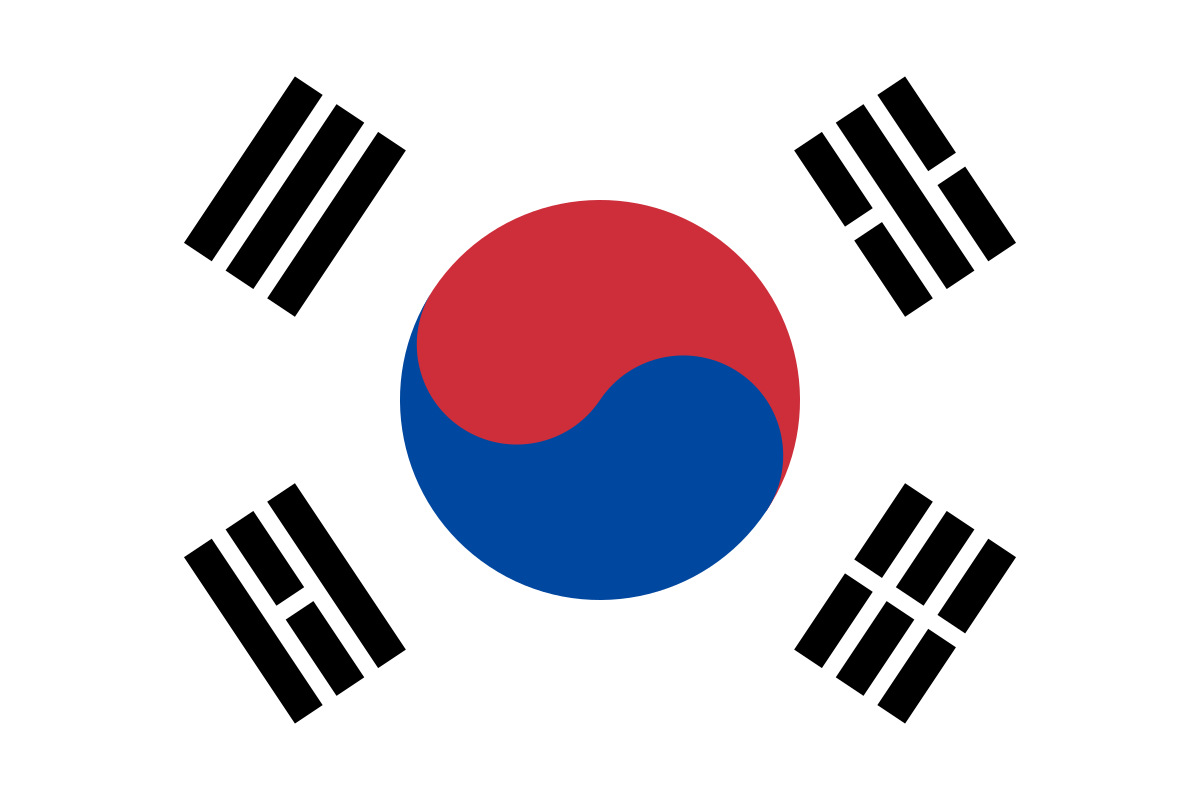
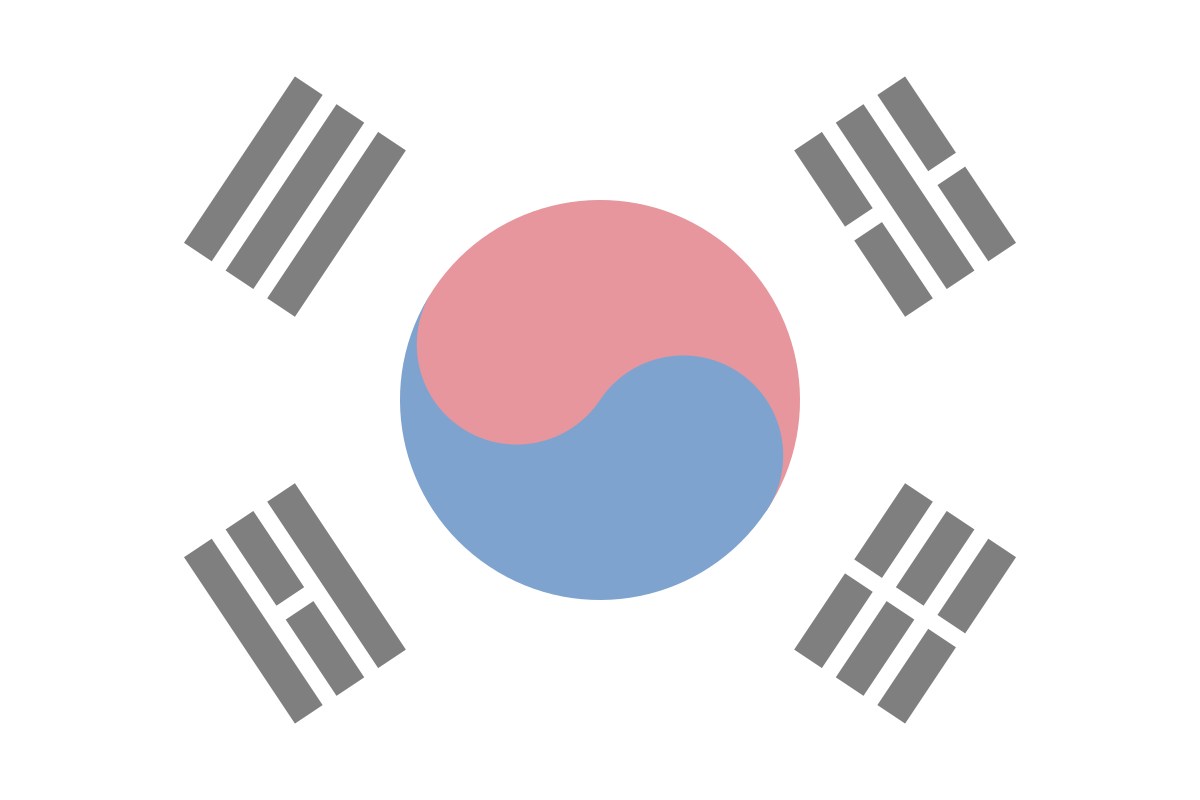
Minor commit a1

diff --git a/tkdfeats1.html b/tkdfeats1.html
@@ -6,42 +6,45 @@
     <meta name="viewport" content="width=device-width, initial-scale=1.0">
     <title>gdesigner:TKD Feats: White-Orange Belt</title>
     <style>
-
         body {
-            font-family: Calibri, Arial, Helvetica, sans-serif;
-        }
-    
-        .body .transparent-background {
             background-image: url("img/skflag.png");
             background-repeat: no-repeat;
+            background-position: center;
             background-size: cover;
             position: absolute;
-            top: 0;    
+            top: 0;
             width: 100%;
             height: 100%;
-            opacity: 20%;
+            z-index: 1;
+            font-family: Calibri, Arial, Helvetica, sans-serif;
         }
+
 
         .mainlogotitle {
             display: flex;
             margin-top: 50px;
         }
-        .header{
-            display:flex;
+
+        .header {
+            display: flex;
             justify-content: space-between;
-            margin:auto;
+            margin: auto;
+            z-index: 1;
         }
-        .logodisplay{
+
+        .logodisplay {
             width: 75px;
             height: 75px;
         }
-        .navbar{
+
+        .navbar {
             margin: 10px;
         }
+
         .dropbtn {
-            
+
             background-color: orange;
-            color:black;
+            color: black;
             padding: 20px 20px;
             font-size: 16px;
             border: none;
@@ -57,10 +60,10 @@
             position: absolute;
             background-color: orange;
             min-width: 160px;
-            box-shadow: 0px 8px 16px 0px rgba(0,0,0,0.2);
+            box-shadow: 0px 8px 16px 0px rgba(0, 0, 0, 0.2);
             z-index: 1;
             overflow: hidden;
-            right:0;
+            right: 0;
         }
 
         .dropdown-content a {
@@ -71,41 +74,53 @@
         }
 
         /* Change color of dropdown links on hover */
-        .dropdown-content a:hover {background-color:peru;}
+        .dropdown-content a:hover {
+            background-color: peru;
+        }
 
         /* Show the dropdown menu on hover */
-        .dropdown:hover .dropdown-content {display: block;}
+        .dropdown:hover .dropdown-content {
+            display: block;
+        }
 
         /* Change the background color of the dropdown button when the dropdown content is shown */
-        .dropdown:hover .dropbtn {background-color: orangered;}
-        
+        .dropdown:hover .dropbtn {
+            background-color: orangered;
+        }
     </style>
 </head>
+
 <body>
-        <div class="header">
-            <a href="index.html"><img class="logodisplay" src="img/HomeIcon.png"></img></a>
+    <div class = "background-img"></div>
+    <div class="header">
+        <a href="index.html"><img class="logodisplay" src="img/HomeIcon.png"></img></a>
 
 
-            <div class="dropdown">
-                <button class="dropbtn">Menu</button>
-                <div class="dropdown-content">
-                    <a href="videos.html">Videos</a>
-                    <a href="photos.html">Photos</a>
-                    <a href="comics.html">Comics</a>
-                    <a href="manuscripts.html">Manuscripts</a>
-                    <a href="cprojs.html">Coding Projects</a>
-                </div>
+        <div class="dropdown">
+            <button class="dropbtn">Menu</button>
+            <div class="dropdown-content">
+                <a href="videos.html">Videos</a>
+                <a href="photos.html">Photos</a>
+                <a href="comics.html">Comics</a>
+                <a href="manuscripts.html">Manuscripts</a>
+                <a href="cprojs.html">Coding Projects</a>
             </div>
-        </div> 
+        </div>
+    </div>
+ 
+
+    <div class="description">
         <h2>TKD Feats: White Through Orange Belt</h2>
         <h3>Current Belt: Orange</h3>
-        <p>This is where I will put my progress in Tae Kwon Do from White to Orange Belt. Once I reach Green Belt (once!), I will make another page for Green through Super Blue. Thank you to JHWCT for making this page possible! I tested for Orange Belt on December 21 and suceeded!</p>
+        <p>This is where I will put my progress in Tae Kwon Do from White to Orange Belt. Once I reach Green Belt
+            (once!), I will make another page for Green through Super Blue. Thank you to JHWCT for making this page
+            possible! I tested for Orange Belt on December 21 and suceeded!</p>
         <h4>Belt Promotion Dates</h4>
         <p>White - Sometime in late July (I'll have to find the exact date)</p>
         <p>Yellow - 9/28/24</p>
         <p><strong>Orange - 12/21/24</strong></p>
-        <div class="transparent-background">
-        </div>
-</body>
-</html>
+    </div>
 
+</body>
+
+</html>

diff --git a/index.html b/index.html
@@ -121,7 +121,9 @@
     <p>My name is Finnegan Granholm, and I am in the fifth grade as of October 27th, 2024. I want to give special thanks to my coding tutor, Jialin, for helping me with this. I would have never gotten this far without you! I live in Virginia, and I like to code, act, write stories, do math, and go to school! This website uses no cookies.</p>
     <!-- <h2>g-games</h2>
     <p>I had an idea to try "g-games", where you can play games right here on gdesigner.net. Actually, though, I want to see if g-games.live is an available domain. More on this to come!!</p> -->
+    <!-- <h2>Notice</h2> -->
     <h4>No updates as of right now.</h4>
+    <p>© gdesigner 2025. All rights reserved.</p>
     </div>
  
 </div>
